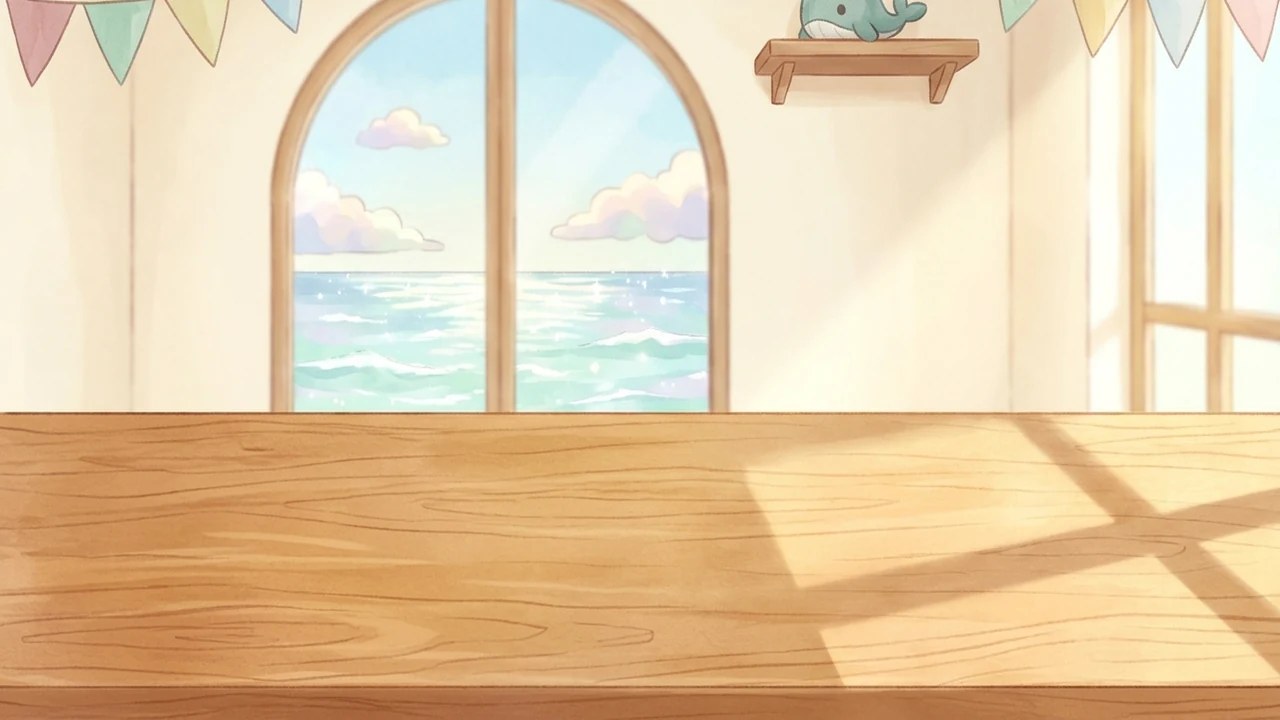
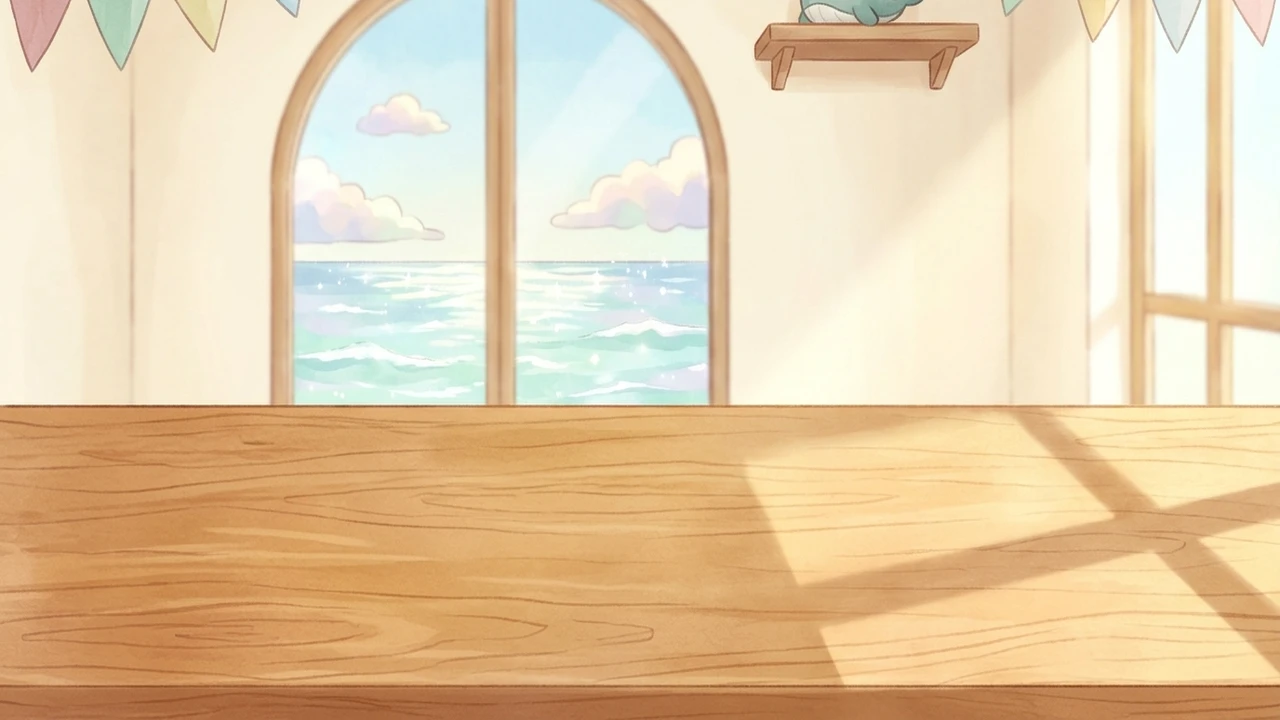
chore(ar-survivor,cloud-isle-market): sync local hd7 & v2.5 playtest artifacts before workspace consolidation

diff --git a/games/ar-survivor/public/game.js b/games/ar-survivor/public/game.js
@@ -1,6 +1,6 @@
 // game.js — DeepSeek娘桌面宠物级实景交互（抓边爬台 / 蹲伏戳物体 / 坐边缘晃腿 / 摸头傲娇 / 物理轨迹回归中心）
 
-import { ARVisionEngine } from './vision.js';
+import { ARVisionEngine } from './vision.js?v=hd7';
 import {
   drawHeroSprite,
   drawEnemySprite,
@@ -11,8 +11,8 @@ import {
   drawInteractionVfx,
   images,
   isReady
-} from './sprites.js';
-import { petAudio } from './audio.js';
+} from './sprites.js?v=hd7';
+import { petAudio } from './audio.js?v=hd7';
 
 const stageEl = document.getElementById('game-stage');
 const canvas = document.getElementById('game-canvas');
@@ -27,6 +27,8 @@ let dpr = Math.min(2, window.devicePixelRatio || 1.5);
 let preferCCW = false;
 
 function updateOrientationLayout() {
+  const prevW = W;
+  const prevH = H;
   const vw = window.innerWidth;
   const vh = window.innerHeight;
   dpr = Math.min(2, window.devicePixelRatio || 1.5);
@@ -49,6 +51,25 @@ function updateOrientationLayout() {
   ctx.imageSmoothingQuality = 'medium';
   if (vision.mode === 'sim') {
     vision.buildSimulatedDesk(W, H);
+  }
+  if (prevW > 0 && prevH > 0 && (W !== prevW || H !== prevH)) {
+    const sx = W / prevW;
+    const sy = H / prevH;
+    try {
+      player.x *= sx;
+      if (player.onGround || Math.abs(player.y + 25 - prevH * 0.68) < 20) {
+        player.y = H * 0.68 - 25;
+        player.vy = 0;
+        player.onGround = true;
+      } else {
+        player.y *= sy;
+      }
+      for (const furn of furnitureList) {
+        furn.x *= sx;
+        furn.y = H * 0.68 - 2;
+        furn.vy = 0;
+      }
+    } catch {}
   }
 }
 
@@ -115,7 +136,7 @@ let gameMode = 'pet';
 
 const player = {
   x: W * 0.5,
-  y: H * 0.48,
+  y: H * 0.62,
   vx: 0,
   vy: 0,
   w: 36,
@@ -282,7 +303,7 @@ function addCoins(amount, x, y, labelPrefix = '') {
     y: (y ?? player.y) - 34,
     vx: (Math.random() - 0.5) * 24,
     vy: -58,
-    text: `${labelPrefix}+${finalCoins} 🪙`,
+    text: `${labelPrefix}+${finalCoins} 金币`,
     color: '#ffd700',
     scale: 1.15,
     life: 0.85
@@ -389,7 +410,7 @@ function syncPlacedFurniture() {
         furnitureList.push({
           key: sp.key,
           x: Math.max(54, Math.min(W - 54, (conf.xRatio || sp.defaultX) * W)),
-          y: H * 0.56 - 2,
+          y: H * 0.68 - 2,
           vy: 0,
           manualOn: conf.manualOn !== undefined ? conf.manualOn : true,
           working: false,
@@ -1145,7 +1166,7 @@ const DRESS_CATALOG = [
     ico: '💻',
     img: './assets/furn_pc.webp?v=hd4',
     name: '深海码农工位',
-    desc: '摆在桌面 · 自动敲代码持续产🪙',
+    desc: '摆在桌面 · 自动敲代码持续产金币',
     price: 55
   },
   {
@@ -1370,7 +1391,7 @@ function renderDrawerItems() {
       `;
       bindCardTap(card, () => {
         if (player.coins < item.price) {
-          setPlayerEmote('🪙 金币不够啦，去『幸存者打工』赚金币吧!', 2.2);
+          setPlayerEmote('✨ 金币不够啦，去『幸存者打工』赚金币吧!', 2.2);
           return;
         }
         if (item.price > 0) {
@@ -1408,7 +1429,7 @@ function renderDrawerItems() {
       bindCardTap(card, () => {
         if (!owned) {
           if (player.coins < item.price) {
-            setPlayerEmote('🪙 金币不足，快去『⚔幸存者』或『接美食』赚金币~', 2.2);
+            setPlayerEmote('✨ 金币不足，快去『⚔幸存者』或『接美食』赚金币~', 2.2);
             return;
           }
           player.coins -= item.price;
@@ -1478,7 +1499,7 @@ function renderDrawerItems() {
       `;
       bindCardTap(card, () => {
         if (player.coins < cost) {
-          setPlayerEmote('🪙 金币不够升级，先去『⚔幸存者』赚一波吧!', 2.2);
+          setPlayerEmote('✨ 金币不够升级，先去『⚔幸存者』赚一波吧!', 2.2);
           return;
         }
         player.coins -= cost;
@@ -1503,7 +1524,7 @@ document.querySelectorAll('.drawer-tab').forEach((tabBtn) => {
   });
 });
 
-// 顶部三模式切换（🐾 养成 | ⭐ 摘星 | ⚔ 幸存者赚🪙）
+// 顶部三模式切换（🐾 养成 | ⭐ 摘星 | ⚔ 幸存者赚金币）
 const wishPillEl = document.getElementById('hud-wish-pill');
 function switchMode(newMode) {
   if (!newMode) return;
@@ -2253,7 +2274,7 @@ function spawnEnemy(forceBoss = false) {
   const isFlyer = !isBoss && !isGoldTreasure && Math.random() < 0.35;
   const isElite = !isBoss && !isGoldTreasure && player.kills > 8 && Math.random() < 0.16;
   const scale = 1 + player.level * 0.14;
-  const centerFloorY = H * 0.56;
+  const centerFloorY = H * 0.68;
   const hpVal = (isBoss ? 340 : isGoldTreasure ? 65 : isElite ? 85 : isFlyer ? 20 : 26) * scale;
 
   enemies.push({
@@ -2284,12 +2305,12 @@ function spawnEnemy(forceBoss = false) {
 (async function autoBoot() {
   updateOrientationLayout();
   player.x = W * 0.5;
-  player.y = H * 0.48;
+  player.y = H * 0.62;
   vision.enableSimMode(W, H);
   if (gameMode !== 'pet') placeStarOnBestTarget();
   await vision.startCamera('environment', W, H);
   player.x = W * 0.5;
-  player.y = H * 0.48;
+  player.y = H * 0.62;
   if (gameMode !== 'pet') placeStarOnBestTarget();
 })();
 
@@ -2368,7 +2389,7 @@ function updateGameplay(dt, flow) {
     }
     if (flowMag > 1.8 && Math.abs(player.vx) < 30 && player.climbState === 'none' && player.palmState === 'none') {
       player.recenterDelay = Math.max(player.recenterDelay, 0.24);
-      if (Math.hypot(player.x - W * 0.5, player.y - H * 0.48) > 95 && player.emoteTimer <= 0) {
+      if (Math.hypot(player.x - W * 0.5, player.y - H * 0.62) > 95 && player.emoteTimer <= 0) {
         setPlayerEmote('🏃♀ 等等我呀~', 1.2);
       }
     }
@@ -2388,7 +2409,7 @@ function updateGameplay(dt, flow) {
   }
 
   const platforms = vision.getAllWalkablePlatforms(W, H);
-  const centerFloorY = H * 0.56;
+  const centerFloorY = H * 0.68;
 
   // 环境暗光感应与桌面微缩家具物理/挂机产币更新
   if (vision.isDarkRoom !== lastDarkRoomState) {
@@ -3446,7 +3467,7 @@ function updateGameplay(dt, flow) {
         player.hp = player.maxHp;
         // 幸存者打工体力耗尽时，携带赚到的全部金币安全返回养成模式干饭休息
         switchMode('pet');
-        setPlayerEmote('🪙 打工收工！带金币回来吃大餐咯~', 2.6);
+        setPlayerEmote('✨ 打工收工！带金币回来吃大餐咯~', 2.6);
         break;
       }
     }

diff --git a/games/ar-survivor/public/vision.js b/games/ar-survivor/public/vision.js
@@ -211,19 +211,7 @@ export class ARVisionEngine {
   }
 
   buildSimulatedDesk(W, H) {
-    const ox = this.simCamX;
-    this.semanticObjects = [
-      {
-        id: 'sim-center-pad',
-        role: 'tech',
-        color: '#00f3ff',
-        x: W * 0.38 + ox,
-        y: H * 0.53,
-        w: W * 0.24,
-        h: H * 0.12,
-        ttl: 999
-      }
-    ];
+    this.semanticObjects = [];
     this.edgePlatforms = [];
   }
 
@@ -875,7 +863,7 @@ export class ARVisionEngine {
       });
     }
 
-    const centerFloorY = H * 0.56;
+    const centerFloorY = H * 0.68;
     list.push({
       x1: -200,
       x2: W + 200,
@@ -898,7 +886,7 @@ export class ARVisionEngine {
     ctx.save();
     if (!this.simBgImg) {
       this.simBgImg = new Image();
-      this.simBgImg.src = './assets/bg_healing_room.webp?v=hd6';
+      this.simBgImg.src = './assets/bg_healing_room.webp?v=hd8';
     }
     if (this.simBgImg.complete && this.simBgImg.naturalWidth > 0) {
       ctx.drawImage(this.simBgImg, 0, 0, W, H);

diff --git a/games/ar-survivor/public/sprites.js b/games/ar-survivor/public/sprites.js
@@ -1036,7 +1036,7 @@ export function drawFurnitureItem(ctx, furn, now, isDarkRoom = false) {
     ctx.textAlign = 'center';
     ctx.strokeStyle = 'rgba(8, 20, 46, 0.85)';
     ctx.lineWidth = 3;
-    const codeTxt = Math.sin(now * 0.006) > 0 ? '💻 敲代码中 </>' : '⚡ AI 产币中 +🪙';
+    const codeTxt = Math.sin(now * 0.006) > 0 ? '💻 敲代码中 </>' : '⚡ AI 产币中 +金币';
     ctx.strokeText(codeTxt, 0, floatY);
     ctx.fillStyle = '#56e8ff';
     ctx.fillText(codeTxt, 0, floatY);
@@ -1135,7 +1135,7 @@ export function drawEnemySprite(ctx, e, now, playerX) {
     ctx.fillStyle = '#ffd700';
     ctx.font = '900 11px sans-serif';
     ctx.textAlign = 'center';
-    ctx.fillText('🪙招财', 0, -size * 0.55);
+    ctx.fillText('✨招财', 0, -size * 0.55);
   }
 
   ctx.restore();

diff --git a/games/ar-survivor/public/index.html b/games/ar-survivor/public/index.html
@@ -6,7 +6,7 @@
   <meta name="apple-mobile-web-app-capable" content="yes" />
   <meta name="apple-mobile-web-app-status-bar-style" content="black-translucent" />
   <title>AR DeepSeek娘 · 实景桌宠养成</title>
-  <link rel="stylesheet" href="./style.css" />
+  <link rel="stylesheet" href="./style.css?v=hd7" />
 </head>
 <body>
   <!-- 底层全屏实景摄像头 -->
@@ -187,6 +187,6 @@
     </div>
   </div>
 
-  <script type="module" src="./game.js"></script>
+  <script type="module" src="./game.js?v=hd7"></script>
 </body>
 </html>
